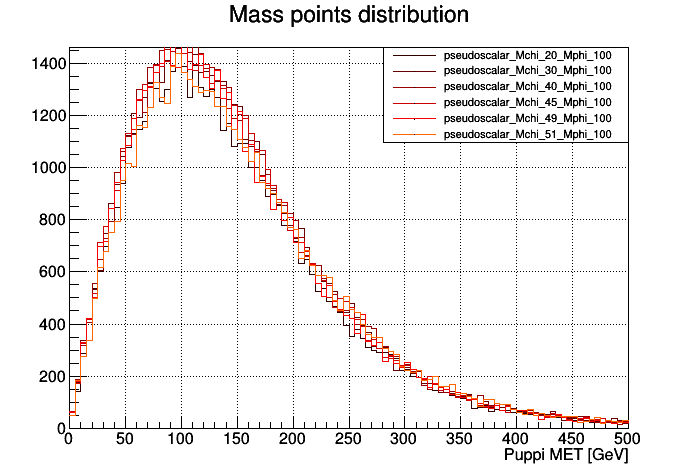
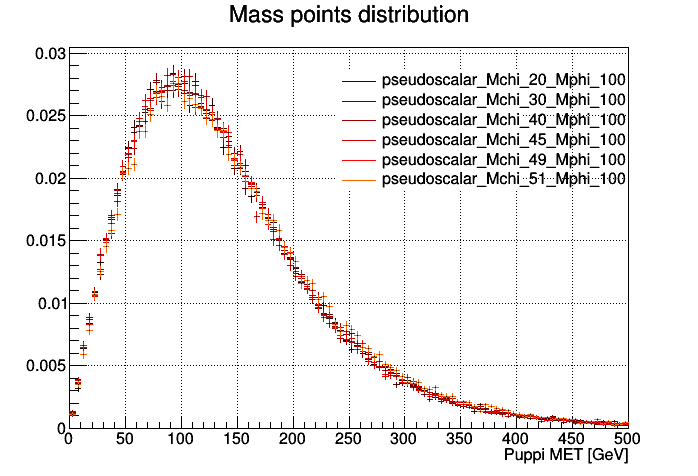
Improved signal plotter and baseW check added

diff --git a/scripts/plotSignals.py b/scripts/plotSignals.py
@@ -10,18 +10,18 @@ variable = ["PuppiMET_pt", 100, 0, 500, "Puppi MET [GeV]"] #Variable name, bins,
 #variable = ["nbJet", 6, 0, 6, "Loose deepCSV b-jets"] 
 #variable = ["mblt", 16, 20, 350, "mblt [GeV]"] 
 
-signalDir = "/eos/user/c/cprieels/work/TopPlusDMRunIILegacyRootfiles/Autumn18_102X_nAODv6_Full2018v6/MCl1loose2018v6__MCCorr2018v6__l2loose__l2tightOR2018v6/"
+#signalDir = "/eos/user/c/cprieels/work/TopPlusDMRunIILegacyRootfiles/Autumn18_102X_nAODv6_Full2018v6/MCl1loose2018v6__MCCorr2018v6__l2loose__l2tightOR2018v6/"
+signalDir = "/eos/user/c/cprieels/work/SignalsPostProcessing/Pablo/Autumn18_102X_nAODv6_Full2018v6/MCl1loose2018v6__MCCorr2018v6__l2loose__l2tightOR2018v6/"
 #signalDir = "/eos/user/c/cprieels/work/TopPlusDMRunIILegacyRootfiles/"
-category = "pseudoscalar"
+category = "scalar"
 trailer = "*"
 #cuts = "mt2ll > 100 && (Lepton_pdgId[0] * Lepton_pdgId[1] == -11*13 || (mll < 76 || mll > 106))"
-cuts = ""
+cuts = "baseW * 1"
 
 normalization = False
 addBackground = False #Plot the ttbar on this plot as wel?
 logy = False
 
-"""
 files = [{'file': 'TTbarDMJets_Dilepton_' + category + '_LO_Mchi_1_Mphi_50'+ trailer +'.root', 'massPoint': category + '_Mchi_1_Mphi_50'},
          {'file': 'TTbarDMJets_Dilepton_' + category + '_LO_Mchi_1_Mphi_100'+ trailer +'.root', 'massPoint': category + '_Mchi_1_Mphi_100'},
          {'file': 'TTbarDMJets_Dilepton_' + category + '_LO_Mchi_1_Mphi_150'+ trailer +'.root', 'massPoint': category + '_Mchi_1_Mphi_150'},
@@ -32,8 +32,8 @@ files = [{'file': 'TTbarDMJets_Dilepton_' + category + '_LO_Mchi_1_Mphi_50'+ tra
          {'file': 'TTbarDMJets_Dilepton_' + category + '_LO_Mchi_1_Mphi_400'+ trailer +'.root', 'massPoint': category + '_Mchi_1_Mphi_400'},
          {'file': 'TTbarDMJets_Dilepton_' + category + '_LO_Mchi_1_Mphi_450'+ trailer +'.root', 'massPoint': category + '_Mchi_1_Mphi_450'},
          {'file': 'TTbarDMJets_Dilepton_' + category + '_LO_Mchi_1_Mphi_500'+ trailer +'.root', 'massPoint': category + '_Mchi_1_Mphi_500'}]
-"""
 
+"""
 files = [{'file': 'TTbarDMJets_Dilepton_' + category + '_LO_Mchi_20_Mphi_100'+ trailer +'.root', 'massPoint': category + '_Mchi_20_Mphi_100'},
          {'file': 'TTbarDMJets_Dilepton_' + category + '_LO_Mchi_30_Mphi_100'+ trailer +'.root', 'massPoint': category + '_Mchi_30_Mphi_100'},
          {'file': 'TTbarDMJets_Dilepton_' + category + '_LO_Mchi_40_Mphi_100'+ trailer +'.root', 'massPoint': category + '_Mchi_40_Mphi_100'},
@@ -42,9 +42,16 @@ files = [{'file': 'TTbarDMJets_Dilepton_' + category + '_LO_Mchi_20_Mphi_100'+ t
          {'file': 'TTbarDMJets_Dilepton_' + category + '_LO_Mchi_51_Mphi_100'+ trailer +'.root', 'massPoint': category + '_Mchi_51_Mphi_100'}]
          #{'file': 'TTbarDMJets_Dilepton_' + category + '_LO_Mchi_55_Mphi_100'+ trailer +'.root', 'massPoint': category + '_Mchi_55_Mphi_100'}] #Not available for pseudoscalar
 
-#files = [{'file': 'TTbarDMJets_Dilepton_' + category + '_LO_Mchi_1_Mphi_100'+ trailer +'.root', 'massPoint': category + '_Mchi_1_Mphi_100'},
-#         {'file': 'DMscalar_Dilepton_top_tWChan_Mchi1_Mphi100' + trailer + '.root', 'massPoint': 'tWChan_Mchi1_Mphi100'}]
 
+files = [{'file': 'DMscalar_Dilepton_top_tWChan_Mchi1_Mphi10__part' + trailer + '.root', 'massPoint': 'tWChan_scalar_Mchi1_Mphi10'},
+         {'file': 'DMscalar_Dilepton_top_tWChan_Mchi1_Mphi20__part' + trailer + '.root', 'massPoint': 'tWChan_scalar_Mchi1_Mphi20'},
+         {'file': 'DMscalar_Dilepton_top_tWChan_Mchi1_Mphi50__part' + trailer + '.root', 'massPoint': 'tWChan_scalar_Mchi1_Mphi50'},
+         {'file': 'DMscalar_Dilepton_top_tWChan_Mchi1_Mphi100__part' + trailer + '.root', 'massPoint': 'tWChan_scalar_Mchi1_Mphi100'},
+         {'file': 'DMscalar_Dilepton_top_tWChan_Mchi1_Mphi200__part' + trailer + '.root', 'massPoint': 'tWChan_scalar_Mchi1_Mphi200'},
+         {'file': 'DMscalar_Dilepton_top_tWChan_Mchi1_Mphi300__part' + trailer + '.root', 'massPoint': 'tWChan_scalar_Mchi1_Mphi300'},
+         {'file': 'DMscalar_Dilepton_top_tWChan_Mchi1_Mphi500__part' + trailer + '.root', 'massPoint': 'tWChan_scalar_Mchi1_Mphi500'},
+         {'file': 'DMscalar_Dilepton_top_tWChan_Mchi1_Mphi1000__part' + trailer + '.root', 'massPoint': 'tWChan_scalar_Mchi1_Mphi1000'}]
+"""
 if addBackground:
     files.append({'file': 'TTTo2L2Nu'+trailer+'.root', 'massPoint': 'TTTo2L2Nu'})
 
@@ -94,15 +101,25 @@ canvas.cd()
 if len(files) == 2:
     legend = TLegend(0.60, 0.80, 0.90, 0.90)
 else:
-    #legend = TLegend(0.62, 0.70, 0.90, 0.90) #Scalar high DM mass
-    legend = TLegend(0.55, 0.70, 0.90, 0.90) #Pseudoscalar high DM mass
-    #legend = TLegend(0.62, 0.62, 0.90, 0.90) #Scalar high mediator mass
-    #legend = TLegend(0.55, 0.62, 0.90, 0.90) #Pseudoscalar high mediator mass
+    legend = TLegend(0.55, 0.6, 0.75, 0.85) #Scalar high DM mass
+    #legend = TLegend(0.46, 0.6, 0.75, 0.85) #Pseudoscalar high DM mass
+    #legend = TLegend(0.55, 0.52, 0.75, 0.85) #Scalar high mediator mass
+    #legend = TLegend(0.48, 0.52, 0.75, 0.85) #Pseudoscalar high mediator mass
+    #legend = TLegend(0.45, 0.55, 0.75, 0.85) #Single top
 
 for i, h in enumerate(signalHistList):
     h.Draw('same')
-    legend.AddEntry(h, massPoints[i])
+
+    legend.SetBorderSize(0)
+    legend.SetFillColor(0)
+    legend.SetTextAlign(12)
+    legend.SetTextFont(42)
+    legend.SetTextSize(0.035)
+    legend.AddEntry(h, massPoints[i], "l")
 
 legend.Draw()
-if logy: canvas.SetLogy();
+
+if logy: 
+    canvas.SetLogy();
+
 canvas.SaveAs(variable[0]+'.png')

diff --git a/scripts/checkBaseW.py b/scripts/checkBaseW.py
@@ -1,0 +1,33 @@
+import os, sys, stat, fnmatch, shutil
+import ROOT as r
+
+#Check the baseW value obtained for a sample
+processToSearch = "nanoLatino_DMscalar_Dilepton_top_tWChan_Mchi1_Mphi100__part*"
+directoryToSearch = "/eos/user/c/cprieels/work/SignalsPostProcessing/Pablo/Autumn18_102X_nAODv6_Full2018v6/MCl1loose2018v6__MCCorr2018v6__l2loose__l2tightOR2018v6/"
+processCrossSection = 0.05334
+
+baseWFound = 0.0
+baseWComputed = 0.0
+totalEventCount = 0
+totalSumW = 0
+
+print("Now reading all the trees corresponding to the process given. This might take a while.")
+
+matchingFilesFound = fnmatch.filter(os.listdir(directoryToSearch), processToSearch)
+for matchingFileFound in matchingFilesFound:
+
+    print("     --> Opening " + str(matchingFileFound))
+    f = r.TFile.Open(directoryToSearch + "/" + matchingFileFound, "read")
+    if baseWFound == 0.0:
+        for index, ev in enumerate(f.Events):
+            baseWFound = ev.baseW
+
+    for index, ev in enumerate(f.Runs):
+        totalEventCount += ev.genEventCount_
+        totalSumW += ev.genEventSumw_
+
+print("Total event count: " + str(totalEventCount) + " and total sumW: " + str(totalSumW))
+print("Now computing the cross section.")
+
+baseWComputed = processCrossSection * 1000 / totalSumW
+print("BaseW value found: " + str(baseWFound) + " and value computed: " + str(baseWComputed) + " (" + str(round(baseWComputed*100/baseWFound, 2)) + "%)")
